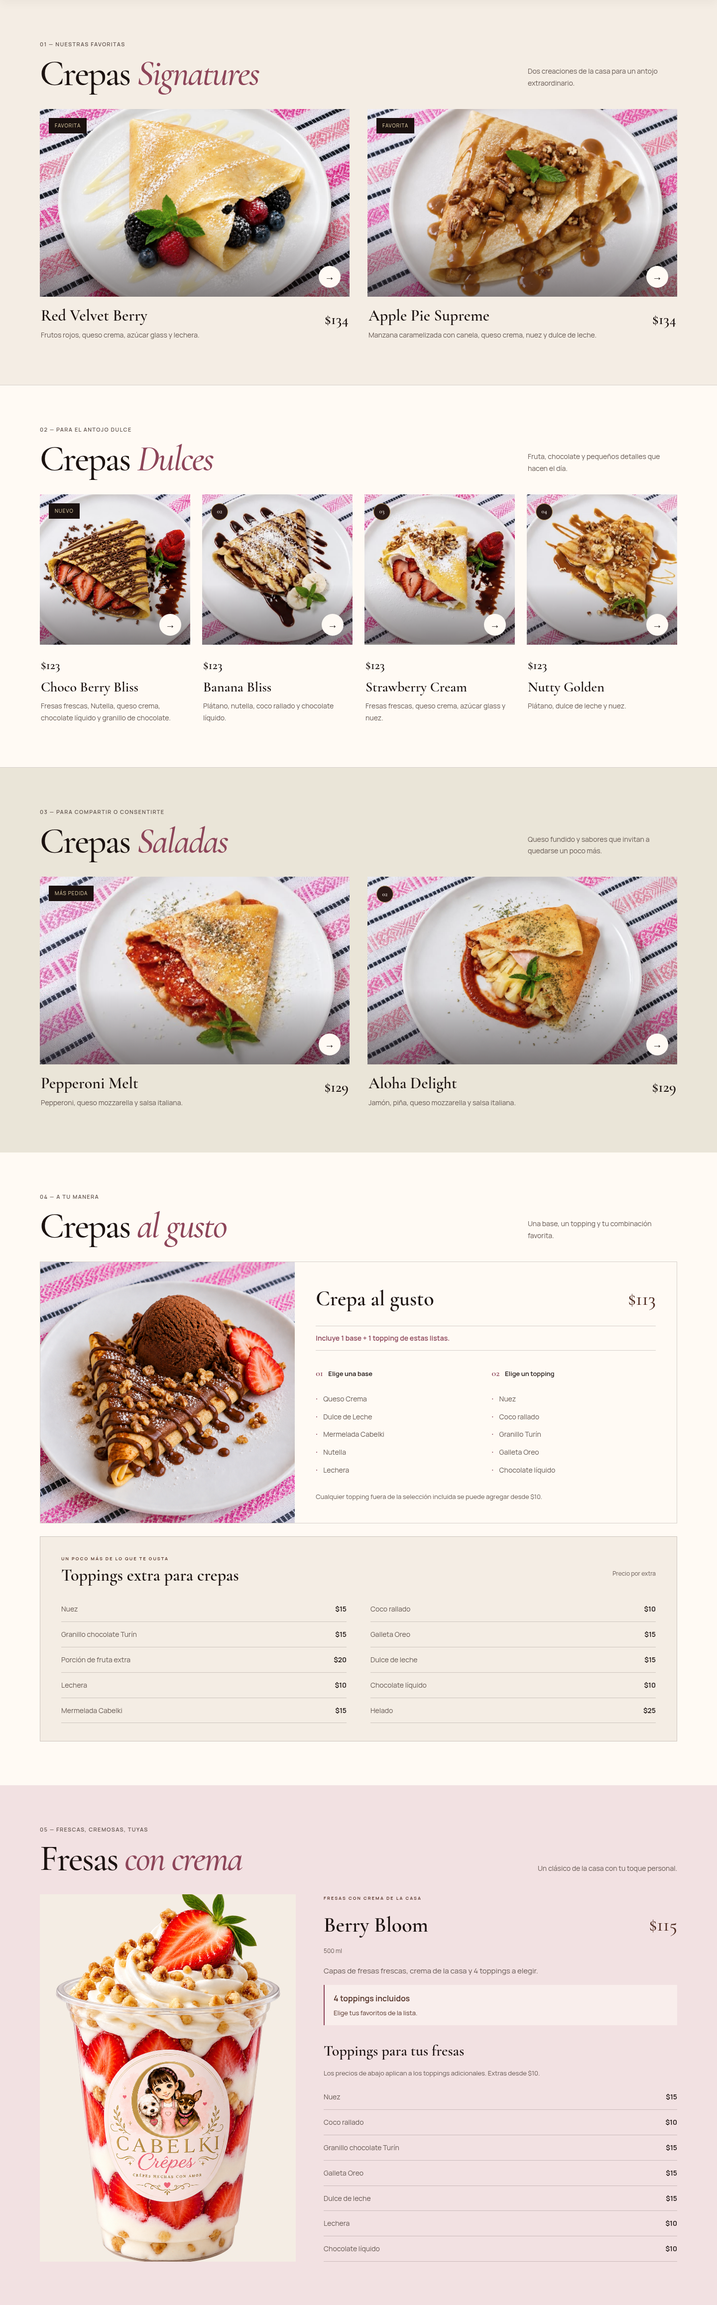
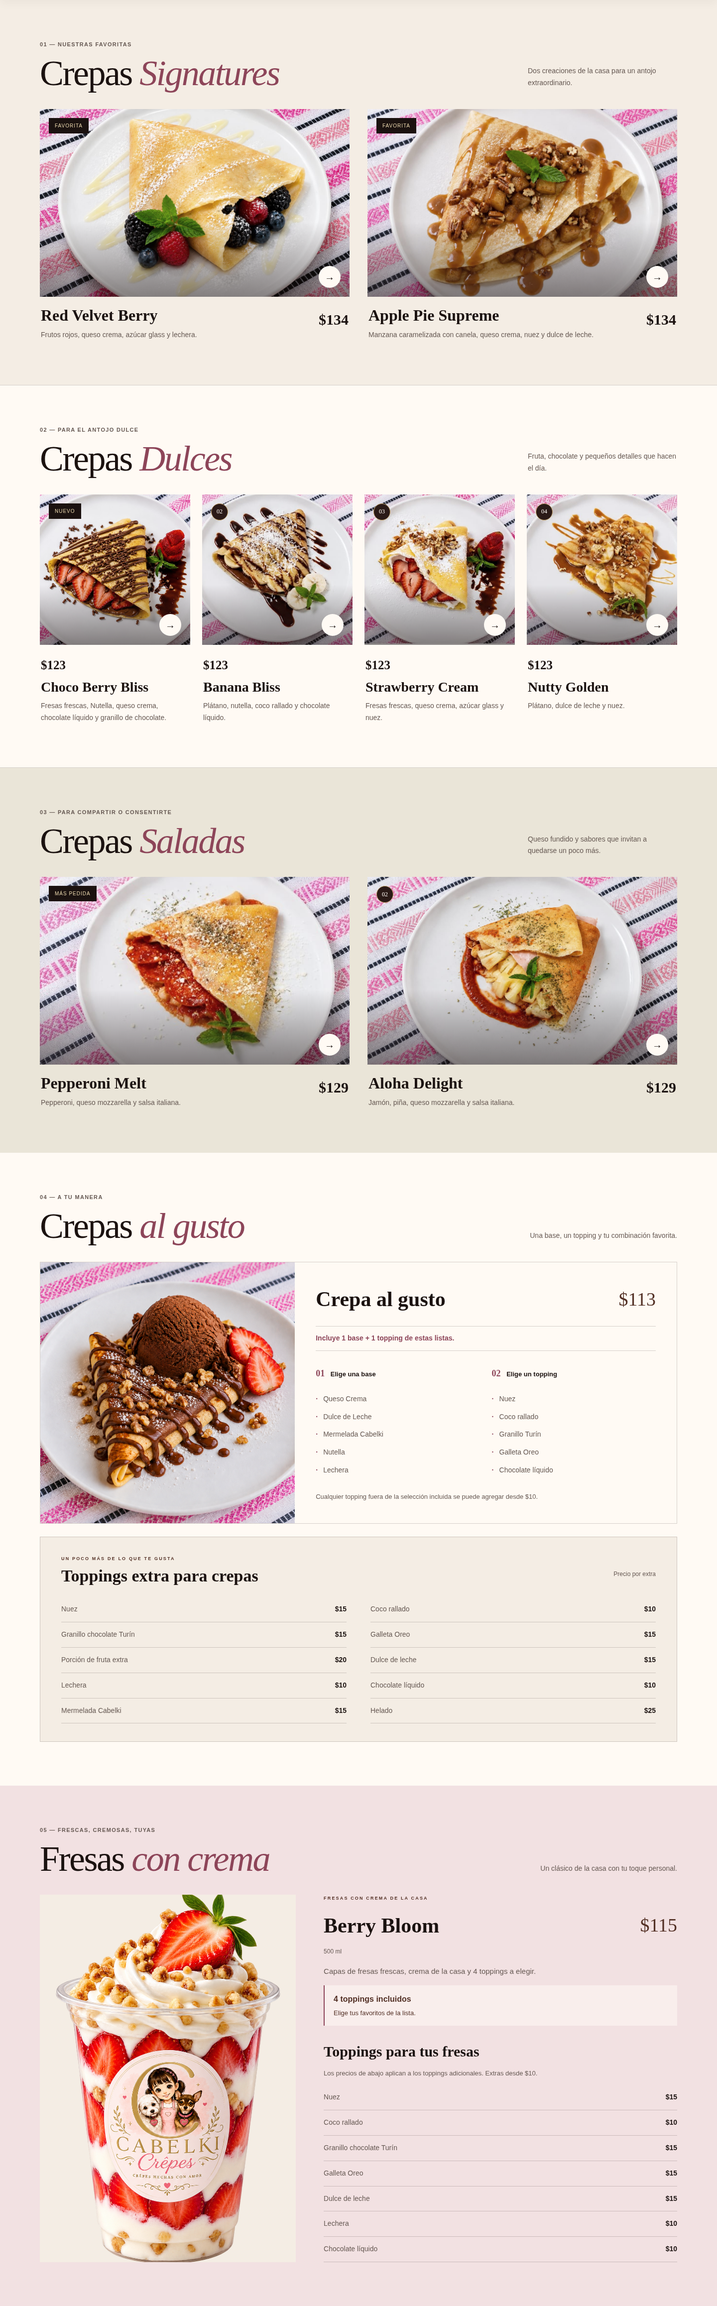
Retire Calaverita de mis Amores from both menus

diff --git a/design-artifacts/luxury-concept/index.html b/design-artifacts/luxury-concept/index.html
@@ -15,13 +15,7 @@
 <body>
   <a class="skip-link" href="#main">Saltar al contenido</a>
 
-  <a class="announcement" href="#promociones">
-    <span>Un antojo de temporada</span>
-    <i aria-hidden="true"></i>
-    <span>Calaverita de mis Amores · $134</span>
-    <i aria-hidden="true"></i>
-    <span>Descúbrelo <span aria-hidden="true">→</span></span>
-  </a>
+  <a class="announcement" href="#promociones">Promociones y novedades <span aria-hidden="true">→</span></a>
 
   <header class="site-header" id="siteHeader">
     <div class="nav-shell">
@@ -41,7 +35,6 @@
       <nav class="primary-nav" id="primaryNav" aria-label="Navegación principal">
         <a href="#coleccion">El menú</a>
         <a href="#promociones" class="nav-promotions"><span aria-hidden="true">✦</span> Promociones</a>
-        <a href="#temporada">Temporada</a>
         <a href="#contacto" class="nav-order">Ordenar ahora <span aria-hidden="true">&rarr;</span></a>
       </nav>
     </div>
@@ -60,7 +53,6 @@
 
           <div class="hero-actions">
             <a class="button button--gold" href="#coleccion">Descubrir el menú <span aria-hidden="true">&darr;</span></a>
-            <a class="text-link" href="#temporada">Ver edición limitada <span aria-hidden="true">→</span></a>
           </div>
 
           <div class="hero-notes" aria-label="Características">
@@ -101,17 +93,7 @@
         <!-- Verified highlights; replace or add slides here when a new offer is confirmed. -->
         <div class="promo-carousel" role="region" aria-roledescription="carrusel" aria-label="Promociones y avisos de CABELKI">
           <div class="promo-slides" id="promoSlides">
-            <article class="promo-slide promo-slide--season" id="promo-season" role="group" aria-roledescription="diapositiva" aria-label="1 de 3: Edición de temporada">
-              <div class="promo-copy">
-                <p class="promo-label"><span aria-hidden="true">✦</span> Edición de temporada</p>
-                <h3>Calaverita<br><em>de mis Amores.</em></h3>
-                <p>Calabaza en tacha, queso crema, canela, nuez y dulce de leche. Un antojo que solo llega por temporada.</p>
-                <div class="promo-offer"><strong>$134</strong><span>Hasta agotar existencias</span></div>
-                <a class="button button--gold" href="#temporada">Descubrir esta creación <span aria-hidden="true">→</span></a>
-              </div>
-              <div class="promo-photo"><img src="../../assets/crepes/crepa-de-temporada.png" alt="Calaverita de mis Amores, crepa de temporada" loading="lazy" decoding="async"></div>
-            </article>
-            <article class="promo-slide promo-slide--berry" id="promo-berry" role="group" aria-roledescription="diapositiva" aria-label="2 de 3: Berry Bloom">
+            <article class="promo-slide promo-slide--berry" id="promo-berry" role="group" aria-roledescription="diapositiva" aria-label="1 de 2: Berry Bloom">
               <div class="promo-copy">
                 <p class="promo-label"><span aria-hidden="true">✦</span> Un favorito a tu gusto</p>
                 <h3>Berry Bloom.<br><em>Tu toque especial.</em></h3>
@@ -121,7 +103,7 @@
               </div>
               <div class="promo-photo"><img src="../../assets/crepes/fresas-con-crema.png" alt="Vaso Berry Bloom de fresas con crema" loading="lazy" decoding="async"></div>
             </article>
-            <article class="promo-slide promo-slide--notice" id="promo-hours" role="group" aria-roledescription="diapositiva" aria-label="3 de 3: Horario y pedidos">
+            <article class="promo-slide promo-slide--notice" id="promo-hours" role="group" aria-roledescription="diapositiva" aria-label="2 de 2: Horario y pedidos">
               <div class="promo-copy">
                 <p class="promo-label"><span aria-hidden="true">✦</span> Un aviso para tu próximo antojo</p>
                 <h3>Las tardes saben<br><em>mejor aquí.</em></h3>
@@ -133,11 +115,10 @@
             </article>
           </div>
           <div class="promo-controls" hidden>
-            <span class="promo-counter" aria-hidden="true"><b id="promoCurrent">01</b> <span>/ 03</span></span>
+            <span class="promo-counter" aria-hidden="true"><b id="promoCurrent">01</b> <span>/ 02</span></span>
             <div class="promo-dots" aria-label="Elegir un aviso">
-              <button type="button" data-promo-slide="0" aria-controls="promo-season" aria-label="Ver aviso 1: Edición de temporada" aria-current="true"></button>
-              <button type="button" data-promo-slide="1" aria-controls="promo-berry" aria-label="Ver aviso 2: Berry Bloom"></button>
-              <button type="button" data-promo-slide="2" aria-controls="promo-hours" aria-label="Ver aviso 3: Horario y pedidos"></button>
+              <button type="button" data-promo-slide="0" aria-current="true" aria-controls="promo-berry" aria-label="Ver aviso 1: Berry Bloom"></button>
+              <button type="button" data-promo-slide="1" aria-controls="promo-hours" aria-label="Ver aviso 2: Horario y pedidos"></button>
             </div>
             <div class="promo-arrows">
               <button type="button" id="promoPrevious" aria-controls="promoSlides" aria-label="Aviso anterior"><span aria-hidden="true">←</span></button>
@@ -164,7 +145,6 @@
         <a href="#saladas">Saladas</a>
         <a href="#crepe-al-gusto">Al gusto</a>
         <a href="#fresas-con-crema">Fresas con crema</a>
-        <a href="#temporada">Temporada</a>
       </div>
     </nav>
 
@@ -368,29 +348,6 @@
       </div>
     </section>
 
-    <section class="season" id="temporada" aria-labelledby="season-heading">
-      <div class="season-image">
-        <img src="../../assets/crepes/crepa-de-temporada.png" alt="Calaverita de mis Amores, crepa de temporada CABELKI" loading="lazy" decoding="async">
-      </div>
-      <div class="season-copy">
-        <p class="section-index">06 — Edición de temporada</p>
-        <p class="overline overline--light">Solo por temporada</p>
-        <h2 id="season-heading">Calaverita<br><em>de mis Amores</em></h2>
-        <p class="season-description">Nuestra crepa de la temporada: calabaza en tacha con un toque de canela, cremosa y con el crujido de la nuez caramelizada. Cuando se acabe la temporada, se va…</p>
-        <ul class="ingredient-list" aria-label="Ingredientes principales">
-          <li>Calabaza en tacha</li>
-          <li>Queso crema</li>
-          <li>Canela</li>
-          <li>Nuez</li>
-          <li>Dulce de leche</li>
-        </ul>
-        <div class="season-order">
-          <span><small>Hasta agotar existencias</small><strong>$134</strong></span>
-          <a class="round-action" href="#contacto" aria-label="Ordenar la crepa de temporada">&rarr;</a>
-        </div>
-      </div>
-    </section>
-
     <section class="experience" id="experiencia">
       <div class="section-shell">
         <header class="experience-heading">
@@ -403,7 +360,7 @@
             <span>01</span>
             <div class="experience-icon" aria-hidden="true">✦</div>
             <h3>Elige tu antojo</h3>
-            <p>Encuentra tu favorita entre recetas dulces, saladas y creaciones de temporada.</p>
+            <p>Encuentra tu favorita entre recetas dulces y saladas.</p>
           </article>
           <article>
             <span>02</span>

diff --git a/design-artifacts/luxury-concept/styles.css b/design-artifacts/luxury-concept/styles.css
@@ -508,26 +508,11 @@ button { font: inherit; }
   font-size: 10px;
 }
 
-.season { min-height: 900px; display: grid; grid-template-columns: 55% 45%; background: var(--ink); color: var(--paper); }
-.season-image { min-height: 900px; overflow: hidden; position: relative; }
-.season-image::after { content: ""; position: absolute; inset: 0; background: linear-gradient(90deg, transparent 66%, rgba(27, 18, 16, .82)); }
-.season-image img { height: 100%; object-fit: cover; filter: saturate(.76) contrast(1.05) brightness(.78); }
-
-.season-copy { padding: 120px clamp(50px, 6vw, 100px) 100px; display: flex; flex-direction: column; justify-content: center; }
-.season-copy .section-index { color: rgba(255, 250, 244, .4); }
 .overline--light { color: var(--gold-light); }
-.season-copy .overline { margin-top: 90px; }
-.season-copy h2 { margin: 22px 0 30px; font-family: var(--display); font-size: clamp(64px, 6vw, 96px); font-weight: 500; letter-spacing: -.045em; line-height: .76; }
-.season-copy h2 em { color: var(--rose-soft); font-size: .72em; font-weight: 500; }
-.season-description { max-width: 500px; margin: 0; color: rgba(255, 250, 244, .58); font-size: 12px; }
 
 .ingredient-list { display: flex; flex-wrap: wrap; gap: 8px; margin: 34px 0 0; padding: 0; list-style: none; }
 .ingredient-list li { padding: 8px 12px; border: 1px solid rgba(234, 215, 173, .22); color: var(--gold-light); font-size: 7px; letter-spacing: .12em; text-transform: uppercase; }
 
-.season-order { margin-top: 68px; padding-top: 26px; border-top: 1px solid var(--line-light); display: flex; align-items: center; justify-content: space-between; }
-.season-order > span { display: flex; flex-direction: column; }
-.season-order small { color: rgba(255, 250, 244, .44); font-size: 7px; letter-spacing: .18em; text-transform: uppercase; }
-.season-order strong { color: var(--gold-light); font-family: var(--display); font-size: 38px; font-weight: 500; }
 .round-action { width: 66px; height: 66px; display: grid; place-items: center; border-radius: 50%; background: var(--rose); color: var(--ink); font-size: 20px; transition: transform .25s ease; }
 .round-action:hover { transform: rotate(14deg); }
 
@@ -693,16 +678,8 @@ button { font: inherit; }
 .berry-copy .feature-note { margin: 8px 0 12px; }
 .berry-toppings { grid-template-columns: 1fr; }
 
-.season { min-height: 690px; }
-.season-image { min-height: 690px; }
-.season-image img { position: absolute; inset: 0; }
-.season-copy { padding-top: 72px; padding-bottom: 72px; }
-.season-copy .section-index { font-size: 11px; color: var(--gold-light); }
-.season-copy .overline { margin-top: 44px; }
-.season-copy h2 { font-size: clamp(56px, 5.3vw, 80px); line-height: .95; }
-.season-description { font-size: 14px; color: var(--ivory); }
 .ingredient-list li { font-size: 11px; letter-spacing: .04em; }
-.season-order small { font-size: 11px; color: var(--ivory); }
+
 .experience { padding: 90px 0; }
 .experience-heading { margin-bottom: 42px; }
 .experience-heading .section-index { font-size: 11px; color: var(--muted); }
@@ -730,8 +707,7 @@ button { font: inherit; }
   .hero-badge { width: 96px; height: 96px; }
   .section-heading { grid-template-columns: 20% 1fr; }
   .section-heading > p { display: none; }
-  .season { grid-template-columns: 50% 50%; }
-  .season-copy { padding-inline: 48px; }
+
   .experience-grid article { padding-inline: 28px; }
 }
 
@@ -775,12 +751,7 @@ button { font: inherit; }
   .product-card--feature { transform: none; }
   .product-image { aspect-ratio: 1; }
   .collection-footer { margin-top: 60px; align-items: flex-start; gap: 24px; flex-direction: column; }
-  .season { grid-template-columns: 1fr; }
-  .season-image { min-height: 560px; }
-  .season-image::after { background: linear-gradient(180deg, transparent 65%, var(--ink)); }
-  .season-copy { padding: 70px 24px 82px; }
-  .season-copy .overline { margin-top: 55px; }
-  .season-copy h2 { font-size: 64px; }
+
   .experience { padding: 96px 0; }
   .experience-heading { grid-template-columns: 1fr; gap: 30px; }
   .experience-heading h2 { font-size: 52px; }
@@ -810,7 +781,7 @@ button { font: inherit; }
   .choice-columns { gap: 16px; }
   .feature-title-row h3 { font-size: 36px; }
   .berry-feature { gap: 32px; }
-  .season-copy { padding-inline: 36px; }
+
 }
 
 @media (max-width: 760px) {
@@ -872,11 +843,7 @@ button { font: inherit; }
   .price-list li { font-size: 14px; }
   .berry-feature { gap: 30px; }
   .berry-feature .feature-photo { height: 390px; }
-  .season-image { min-height: 440px; }
-  .season-copy { padding: 42px 24px 56px; }
-  .season-copy .overline { margin-top: 28px; }
-  .season-copy h2 { font-size: 60px; }
-  .season-order { margin-top: 38px; }
+
   .experience { padding-block: 58px; }
   .experience-heading { margin-bottom: 32px; }
   .experience-heading h2 { font-size: 46px; }

diff --git a/index.html b/index.html
@@ -26,9 +26,6 @@
       <span></span><span></span><span></span>
     </button>
     <nav class="nav" id="primaryNav" aria-label="Secciones">
-      <!-- SEASON NAV (comentar al terminar la temporada) -->
-      <a class="nav-season" href="#temporada">&#10022; Temporada</a>
-      <!-- /SEASON NAV -->
       <a href="#signature">Signature</a>
       <a href="#dulces">Dulces</a>
       <a href="#saladas">Saladas</a>
@@ -64,42 +61,6 @@
     <div class="arch"><img src="assets/crepes/hero-crepe.png" alt="Crêpe artesanal de CABELKI Crêpes" width="1194" height="1200" decoding="async"></div>
   </div>
 </div>
-
-<!-- =========================================================
-     CREPA DE TEMPORADA — limited-time seasonal crêpe
-     ► FIN DE TEMPORADA — para quitarla del sitio:
-       1) Selecciona todas las líneas entre "SEASON START" y "SEASON END"
-          y presiona Ctrl+/  (Cmd+/ en Mac) para comentarlas.
-       2) Haz lo mismo con la línea del menú entre "SEASON NAV" y "/SEASON NAV".
-       Para volver a mostrarla, presiona Ctrl+/ otra vez sobre esas líneas.
-       Para la siguiente temporada solo edita nombre, descripción,
-       ingredientes, precio y la foto (assets/crepes/crepa-de-temporada.png).
-========================================================== -->
-<!-- SEASON START -->
-<section class="alt season" id="temporada" aria-labelledby="season-heading"><div class="wrap">
-  <div class="head"><p class="eyebrow">&#10022; Edición limitada</p><h2 id="season-heading">Crepa de Temporada</h2><div class="rule"><span></span></div></div>
-  <article class="feature season-card">
-    <div class="fi">
-      <img src="assets/crepes/crepa-de-temporada.png" alt="Crepa de temporada: Calaverita de mis Amores con calabaza en tacha, canela, nuez y dulce de leche" loading="lazy" decoding="async" onerror="this.style.display='none'; this.parentElement.classList.add('no-image')">
-      <span class="tag">Solo de temporada</span>
-    </div>
-    <div class="fb">
-      <p class="eyebrow">&#10024; Disponible por tiempo limitado</p>
-      <h3>Calaverita de mis Amores</h3>
-      <p class="desc">Una creación de temporada que eleva la calabaza en tacha con delicadas notas de canela, crema batida y pepitas tostadas; un capricho exquisito, coronado con dulce de leche y pensado para saborearse sin prisa. Disponible solo por tiempo limitado.</p>
-      <ul class="chips" aria-label="Ingredientes">
-        <li>Suave base de queso crema</li>
-        <li>Calabaza en tacha, delicadamente confitada</li>
-        <li>Nube de crema batida</li>
-        <li>Hilo de dulce de leche</li>
-        <li>Pepitas tostadas y crujientes</li>
-      </ul>
-      <p class="price num">$134<small>MXN</small></p>
-      <p class="note">Hasta agotar existencias.</p>
-    </div>
-  </article>
-</div></section>
-<!-- SEASON END -->
 
 <!-- =========================================================
      SIGNATURE

diff --git a/styles.css b/styles.css
@@ -192,17 +192,10 @@ footer .brand { display: block; margin-bottom: 8px; }
 .head h3 { font-family: var(--font-display); font-weight: 500; font-size: clamp(1.8rem, 4vw, 2.4rem); line-height: 1.05; margin-top: 10px; }
 .head.subhead { margin-top: clamp(40px, 6vw, 64px); }
 
-/* Chips: base/topping choices and season ingredients */
+/* Chips: base/topping choices */
 .chips { display: flex; flex-wrap: wrap; gap: 8px; }
 .chips li { padding: 5px 14px; border: 1px solid var(--line); font-size: 0.85rem; letter-spacing: 0.04em; color: var(--fg); }
 .feature .desc { color: var(--muted); }
-
-/* Seasonal crepe */
-.season { background: radial-gradient(ellipse at 50% 0%, var(--glow), transparent 70%), var(--bg-2); }
-.season .head .eyebrow { color: var(--gold); }
-.season-card .fi { position: relative; }
-.nav a.nav-season { color: var(--rose); }
-.nav a.nav-season:hover { color: var(--gold); }
 
 /* Cutout photo (transparent PNG, e.g. Fresas con Crema): fitted whole over a themed backdrop */
 .feature .fi--cutout {

diff --git a/CLAUDE.md b/CLAUDE.md
@@ -31,18 +31,17 @@ Opening `index.html` directly also works.
 
 ## Page structure (section order in `index.html`)
 
-`#inicio` (hero) → `#temporada` (seasonal, removable) → `#signature` → `#dulces` → `#saladas` → `#gusto` (Crêpe al Gusto) → `#toppings` (Extra Toppings) → `#fresas` (Fresas con Crema + its toppings) → `#combos` (hidden) → `#bebidas` (hidden) → `#contacto` → footer.
+`#inicio` (hero) → `#signature` → `#dulces` → `#saladas` → `#gusto` (Crêpe al Gusto) → `#toppings` (Extra Toppings) → `#fresas` (Fresas con Crema + its toppings) → `#combos` (hidden) → `#bebidas` (hidden) → `#contacto` → footer.
 
-The header nav (`header.bar > nav#primaryNav`, a hamburger dropdown below 760px) links to `#temporada`, `#signature`, `#dulces`, `#saladas`, `#gusto`, `#fresas` and `#contacto`. `#combos` and `#bebidas` are commented out together with their nav links. `#toppings` is not in the nav.
+The header nav (`header.bar > nav#primaryNav`, a hamburger dropdown below 760px) links to `#signature`, `#dulces`, `#saladas`, `#gusto`, `#fresas` and `#contacto`. `#combos` and `#bebidas` are commented out together with their nav links. `#toppings` is not in the nav.
 
 Sections alternate backgrounds: `section.alt > .wrap` (tinted, full-bleed) and plain `.wrap > section`. Each repeats the same pattern: `div.head` (`p.eyebrow`, `h2`, `div.rule > span`) → content. Copy an existing section's markup instead of inventing a new one. There is no scroll-reveal JS.
 
 ## Component patterns
 
 - **Plate** (Signature/Dulces/Saladas): `article.plate` > `.ph` > `img` + optional `span.tag`, then `.pbody` with `h3`, `p.d` and `p.price.num` (`$NN<small>MXN</small>`). Grids are `.grid.g2` or `.grid.g4`.
-- **Feature** (Crêpe al Gusto, Fresas con Crema, seasonal crêpe): `.feature` (`.flip` swaps the image side) with `.fi` (image) and `.fb` (body). Choices are `ul.chips` inside `.pick` (labels `.lab`, separator `.plus`). It is informational only: nothing is selectable.
+- **Feature** (Crêpe al Gusto, Fresas con Crema): `.feature` (`.flip` swaps the image side) with `.fi` (image) and `.fb` (body). Choices are `ul.chips` inside `.pick` (labels `.lab`, separator `.plus`). It is informational only: nothing is selectable.
 - **Leader-dot list**: `ul.menu-list` > `li` > `<span>name</span><span class="pr">$NN</span>`; add `.cols` for two columns. Extra Toppings (`#toppings`) and the list under Fresas con Crema are **separate hard-coded lists**, so a price change usually has to be made in both.
-- **Seasonal crêpe** (`#temporada`): `section.alt.season` with an `article.feature.season-card`. It is wrapped in `<!-- SEASON START -->` / `<!-- SEASON END -->` and its nav link in `<!-- SEASON NAV -->` / `<!-- /SEASON NAV -->`. To end the season, comment out both blocks (select the lines, Ctrl+/). Never nest a real HTML comment inside those blocks. The photo is `assets/crepes/crepa-de-temporada.png`.
 - **Hidden sections** (Combos, Bebidas): kept as one big HTML comment between `COMBOS START`/`COMBOS END` (same for BEBIDAS). The markup inside uses `.combo` cards and `.house` + `.menu-list` for drinks. Don't put `--` or nested comments inside.
 
 ### Image fallback convention

diff --git a/design-artifacts/luxury-concept/README.md b/design-artifacts/luxury-concept/README.md
@@ -14,24 +14,22 @@ La fuente es `../../index.html`, en el commit `adae24015be877527f6c8f6e7ef2700dc
 | Crepas al gusto | $113; incluye 1 base y 1 topping, con 5 opciones en cada lista |
 | Extras para crepas | 10 extras con sus precios individuales, desde $10 hasta $25 |
 | Fresas con crema | Berry Bloom de 500 ml: $115, incluye 4 toppings; lista propia de 7 opciones con precios para extras |
-| Temporada | Calaverita de mis Amores: $134, con ingredientes y aviso de disponibilidad |
 | Contacto | Ubicación, horario, WhatsApp, Instagram y Facebook |
 
 Los combos y las bebidas están comentados y ocultos en el sitio original. Este concepto respeta ese estado. Para volver a ofrecerlos, primero confirmar disponibilidad y precios.
 
 ## Carrusel de promociones y avisos
 
-El carrusel aparece debajo de la portada y tiene acceso desde la franja superior y el menú principal. Sus tres avisos iniciales usan información existente:
+El carrusel aparece debajo de la portada y tiene acceso desde la franja superior y el menú principal. Sus dos avisos iniciales usan información existente:
 
-1. Calaverita de mis Amores: $134, hasta agotar existencias.
-2. Berry Bloom: $115, 500 ml y 4 toppings incluidos.
-3. Horario de lunes a sábado, de 18:00 a 22:00, con enlace para pedir por WhatsApp.
+1. Berry Bloom: $115, 500 ml y 4 toppings incluidos.
+2. Horario de lunes a sábado, de 18:00 a 22:00, con enlace para pedir por WhatsApp.
 
 Son novedades y avisos, sin descuentos ni vigencias inventadas. El enlace «Consultar promociones» abre WhatsApp con una consulta preparada; no envía mensajes automáticamente.
 
 Para añadir un aviso, duplica un `article.promo-slide` dentro de `#promoSlides` en `index.html`. Asigna un `id` único y un `aria-label` descriptivo, y cambia el texto, la fotografía, el enlace y las condiciones según la promoción confirmada. Los indicadores, el total y los anuncios accesibles se calculan desde las diapositivas al iniciar.
 
-El carrusel se controla con flechas, indicadores, teclas izquierda/derecha cuando los controles tienen el foco y gestos horizontales en pantalla táctil. No avanza automáticamente. Respeta la preferencia de movimiento reducido; sin JavaScript, los tres avisos y el menú siguen disponibles.
+El carrusel se controla con flechas, indicadores, teclas izquierda/derecha cuando los controles tienen el foco y gestos horizontales en pantalla táctil. No avanza automáticamente. Respeta la preferencia de movimiento reducido; sin JavaScript, los dos avisos y el menú siguen disponibles.
 
 ## Vista local
 

diff --git a/README.md b/README.md
@@ -112,14 +112,6 @@ No necesitas tocar `styles.css` — cada crêpe es un bloque de HTML independien
 
 > Tip: la sección "Dulces" usa `grid g4` (hasta 4 columnas según el ancho de pantalla) y Signature/Saladas usan `grid g2` (2 columnas).
 
-## 5b. Crepa de Temporada (sección temporal)
-
-Sección destacada al inicio del menú (`id="temporada"`) con foto, descripción, ingredientes, precio y la etiqueta "Solo de temporada".
-
-- **Foto:** guarda la imagen como `assets/crepes/crepa-de-temporada.png` (mientras no exista se ve un fondo de color).
-- **Cambiar de temporada:** edita en `index.html` el nombre (el `<h3>`), la descripción (`class="desc"`), los ingredientes (`class="chips"`) y el precio (`class="price"`).
-- **Quitarla cuando termine la temporada:** en `index.html` selecciona todas las líneas entre `SEASON START` y `SEASON END` y presiona **Ctrl+/** (Cmd+/ en Mac). Haz lo mismo con la línea entre `SEASON NAV` y `/SEASON NAV` en el menú. Para volver a mostrarla, presiona Ctrl+/ otra vez.
-
 ## 6. Opciones de tipografía
 
 El sitio usa actualmente **Cormorant Garamond** (títulos) + **Lato** (texto) — un estilo más delicado y romántico. Si quieres probar otro estilo, aquí tienes alternativas — todas gratuitas en Google Fonts y afines a la estética boutique del sitio:

diff --git a/CHANGES.md b/CHANGES.md
@@ -6,6 +6,10 @@
 
 ---
 
+## Fin de la temporada de Calaverita de mis Amores
+
+Se retiraron la sección, sus enlaces y la fotografía `crepa-de-temporada.png` del menú y del concepto de lujo. El carrusel conserva los dos avisos vigentes: Berry Bloom y horario de pedidos.
+
 ## [v1.1.0] — 2026-09-01
 
 ### 🔴 Critical Bug Fixes
